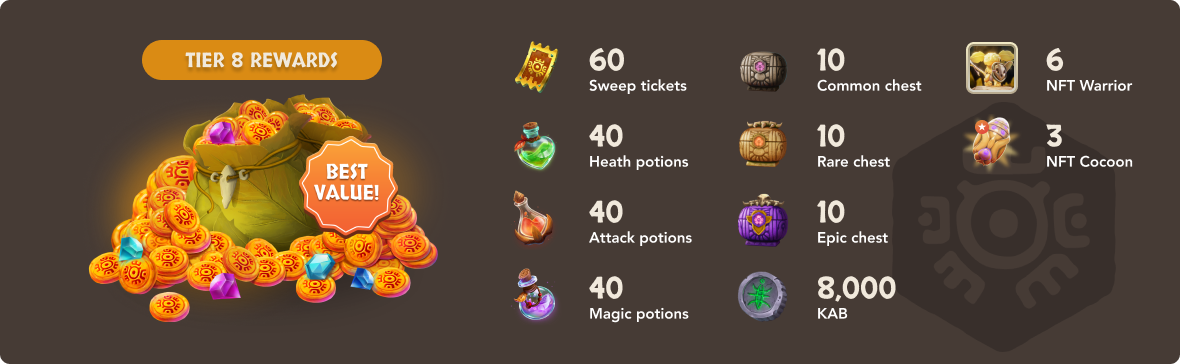
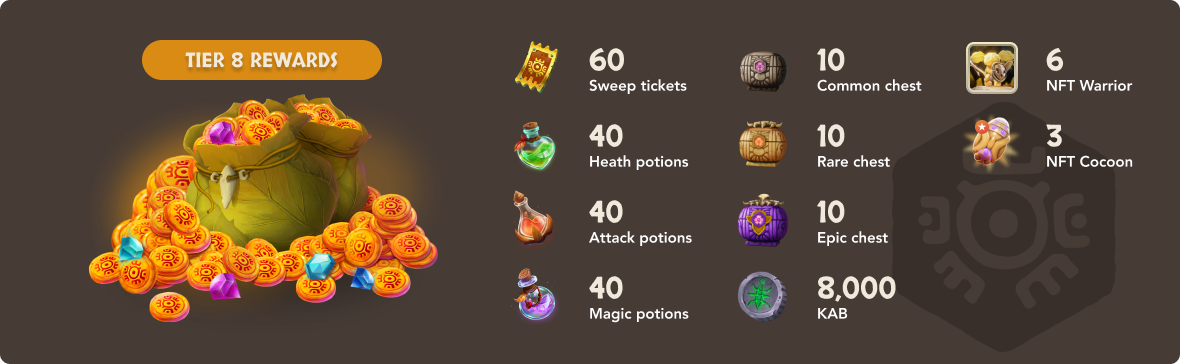
Update best value

Changed region(s): [[0.2441, 0.3626, 0.3356, 0.6648]]

diff --git a/src/components/StakeView/StakeView.js b/src/components/StakeView/StakeView.js
@@ -28,6 +28,7 @@ export const tierList = [
     reward: 2000,
     image: '/assets/stake-2/images/bonus-tier-1.png',
     imageMobile: '/assets/stake-2/images/bonus-tier-1-mobile.png',
+    isBestValue: false,
   },
   {
     code: 'tier-2',
@@ -35,6 +36,7 @@ export const tierList = [
     reward: 5000,
     image: '/assets/stake-2/images/bonus-tier-2.png',
     imageMobile: '/assets/stake-2/images/bonus-tier-2-mobile.png',
+    isBestValue: false,
   },
   {
     code: 'tier-3',
@@ -42,6 +44,7 @@ export const tierList = [
     reward: 10000,
     image: '/assets/stake-2/images/bonus-tier-3.png',
     imageMobile: '/assets/stake-2/images/bonus-tier-3-mobile.png',
+    isBestValue: false,
   },
   {
     code: 'tier-4',
@@ -49,6 +52,7 @@ export const tierList = [
     reward: 20000,
     image: '/assets/stake-2/images/bonus-tier-4.png',
     imageMobile: '/assets/stake-2/images/bonus-tier-4-mobile.png',
+    isBestValue: false,
   },
   {
     code: 'tier-5',
@@ -56,6 +60,7 @@ export const tierList = [
     reward: 40000,
     image: '/assets/stake-2/images/bonus-tier-5.png',
     imageMobile: '/assets/stake-2/images/bonus-tier-5-mobile.png',
+    isBestValue: false,
   },
   {
     code: 'tier-6',
@@ -63,6 +68,7 @@ export const tierList = [
     reward: 60000,
     image: '/assets/stake-2/images/bonus-tier-6.png',
     imageMobile: '/assets/stake-2/images/bonus-tier-6-mobile.png',
+    isBestValue: false,
   },
   {
     code: 'tier-7',
@@ -70,6 +76,7 @@ export const tierList = [
     reward: 80000,
     image: '/assets/stake-2/images/bonus-tier-7.png',
     imageMobile: '/assets/stake-2/images/bonus-tier-7-mobile.png',
+    isBestValue: false,
   },
   {
     code: 'tier-8',
@@ -77,6 +84,7 @@ export const tierList = [
     reward: 100000,
     image: '/assets/stake-2/images/bonus-tier-8.png',
     imageMobile: '/assets/stake-2/images/bonus-tier-8-mobile.png',
+    isBestValue: false,
   },
   {
     code: 'tier-9',
@@ -84,6 +92,7 @@ export const tierList = [
     reward: 200000,
     image: '/assets/stake-2/images/bonus-tier-9.png',
     imageMobile: '/assets/stake-2/images/bonus-tier-9-mobile.png',
+    isBestValue: true,
   },
 ];
 
@@ -381,7 +390,7 @@ const StakeView = () => {
       <Container className='flex flex-col items-center py-20 md:py-28 text-color-secondary container-page'>
         <div className='font-skadi text-xl md:text-giant mb-2 md:mb-0'>OKG STAKING POOL 2</div>
         <div
-          className='mb-6 md:mb-16'
+          className='mb-4'
           style={{
             width: isMobile ? 84 : 192,
             height: isMobile ? 25 : 38,
@@ -398,6 +407,15 @@ const StakeView = () => {
               {stakeStatus ?? ''}
             </div>
           )}
+        </div>
+        <div
+          className='mb-10 md:mb-[72px] text-sm text-center md:text-lg text-white py-2 px-14'
+          style={{
+            background:
+              'linear-gradient(90deg, rgba(209, 148, 57, 0) 0%, #CE933A 15.63%, #FF7B31 49.48%, #D8AA64 84.9%, rgba(206, 147, 59, 0) 100%)',
+          }}
+        >
+          10,000 KAB and Rarest Treasure Chests are Waiting for Level 9 Staker
         </div>
         <div className='flex flex-col-reverse md:grid md:grid-cols-2 gap-4 md:gap-5 mb-8 md:mb-9 w-full'>
           <Stake poolStatus={poolStatus} id={componentIds[0]} />
@@ -442,11 +460,7 @@ const StakeView = () => {
             >
               {tierList.map((slide, index) => (
                 <SwiperSlide key={index}>
-                  <img
-                    src={isMobile ? slide.imageMobile : slide.image}
-                    alt='slide'
-                    className='w-full'
-                  />
+                  <img src={isMobile ? slide.imageMobile : slide.image} alt='slide' className='w-full' />
                 </SwiperSlide>
               ))}
             </CustomSwiper>
@@ -501,11 +515,13 @@ const StakeView = () => {
                       />
                     )}
                     <img
-                      src={`/assets/images/${active ? 'active' : 'deactive'}-bonus-tier.png`}
+                      src={`/assets/stake-2/images/${
+                        tier.isBestValue ? 'best' : active ? 'active' : 'deactive'
+                      }-bonus-tier.png`}
                       alt={tier.name}
-                      className={`absolute top-1/2 cursor-pointer ${active ? '' : 'h-6'}`}
+                      className={`absolute top-1/2 cursor-pointer ${tier.isBestValue || active ? '' : 'h-6'}`}
                       style={{
-                        transform: `translate(${active ? -58 : -18}px,-50%)`,
+                        transform: `translate(${tier.isBestValue ? -26.5 : active ? -58 : -18}px,-50%)`,
                         left,
                       }}
                       onClick={() => {
